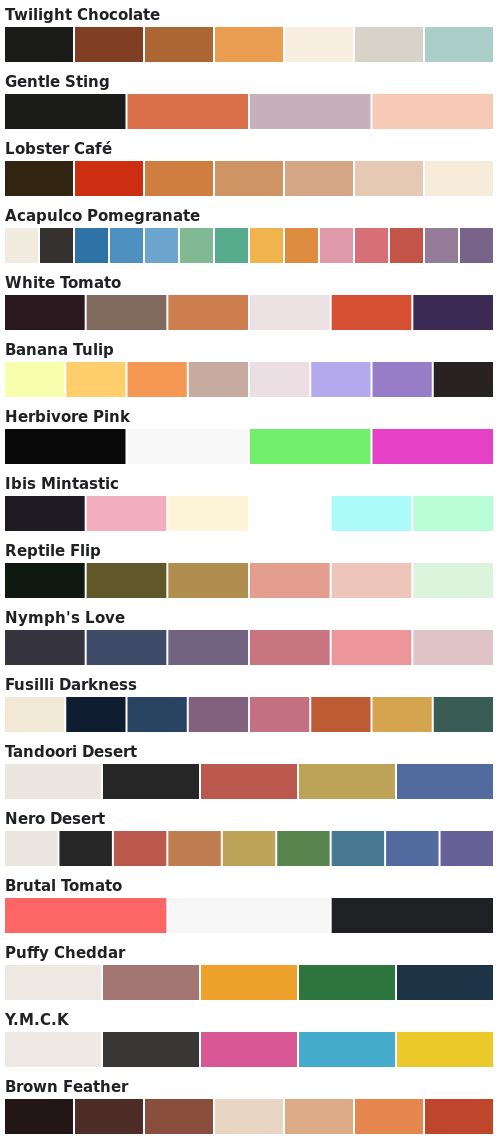
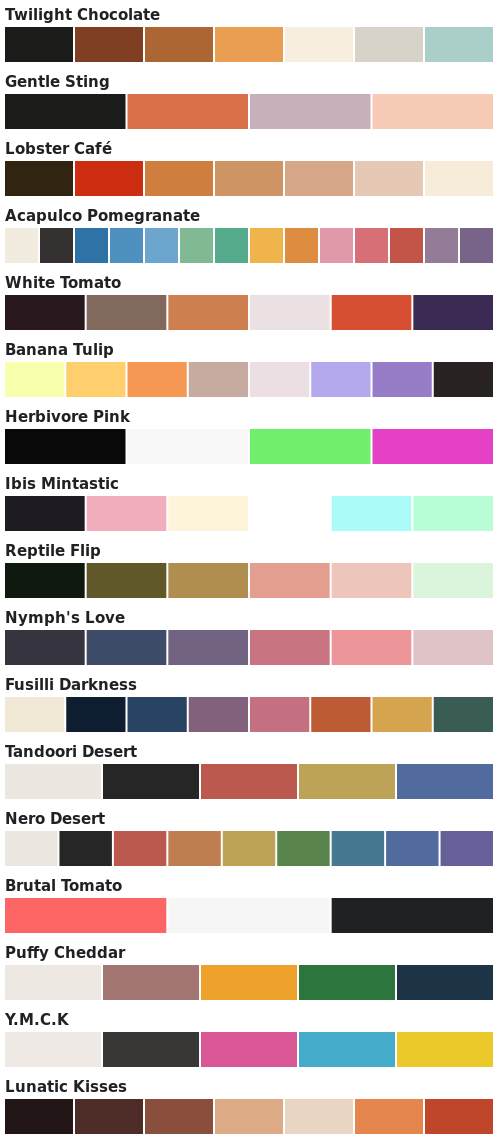
meodai published a site update

Changed region(s): [[0.42, 0.9526, 0.72, 1.0], [0.03, 0.9526, 0.24, 0.9833]]

diff --git a/palettes.js b/palettes.js
@@ -3,7 +3,7 @@
   typeof define === 'function' && define.amd ? define(['exports'], factory) :
   (global = typeof globalThis !== 'undefined' ? globalThis : global || self, factory(global.colorPalettes = {}));
 })(this, (function (exports) { 'use strict';
-  const palettes = [{"name":"Twilight Chocolate","colors":["#1b1b19","#803e23","#ac6633","#ea9e52","#f7eedf","#d7d3c8","#aacfc8"]},{"name":"Gentle Sting","colors":["#1b1b19","#da704a","#c8afbc","#f6cab4"]},{"name":"Lobster Café","colors":["#312512","#cd2d10","#d07e40","#ce9464","#d6a786","#e5c9b5","#f7ebda"]},{"colors":["#f2ebdf","#353130","#2f72a6","#4e90c0","#6ca6ce","#80b994","#55ab8c","#f0b44c","#dd8c40","#e099a8","#d76f76","#c35448","#947b98","#786488"],"name":"Acapulco Pomegranate"},{"colors":["#29181e","#81695d","#ce7f50","#ebe1e2","#d74f32","#3b2a54"],"name":"White Tomato"},{"colors":["#f8ffad","#ffcf6e","#f49854","#c7aba1","#ecdfe3","#b4a9ec","#977cc7","#292222"],"name":"Banana Tulip"},{"colors":["#090909","#f8f8f8","#71ee6b","#e541c7"],"name":"Herbivore Pink"},{"colors":["#1e1b22","#f3aebd","#fdf4da","#ffffff","#abfcf8","#b9fdd6"],"name":"Ibis Mintastic"},{"colors":["#0f1910","#615829","#af8e4f","#e39e90","#edc5bb","#dbf5dc"],"name":"Reptile Flip"},{"colors":["#36343f","#3e4c69","#726382","#c97481","#ec9699","#dfc3c7"],"name":"Nymph's Love"},{"colors":["#f1e9d6","#0f1d30","#284462","#82617c","#c47080","#bc5b34","#d4a44f","#395d54"],"name":"Fusilli Darkness"},{"author":"ippsketch","colors":["#ebe7e0","#262626","#bc594e","#bca357","#516b9e"],"name":"Tandoori Desert"},{"author":"ippsketch","colors":["#ebe7e0","#262626","#bc594e","#bf7e4f","#bca357","#5a844d","#467991","#516b9e","#656198"],"name":"Nero Desert"},{"name":"Brutal Tomato","colors":["#fe6666","#f6f6f6","#202125"]},{"colors":["#ede8e1","#a37673","#eea22c","#2c763d","#1c3445"],"name":"Puffy Cheddar"},{"name":"Y.M.C.K","colors":["#eee9e5","#383736","#d85794","#45abcb","#ebc92a"]},{"colors":["#221716","#4e2c28","#8a4e3d","#e8d6c2","#dcab86","#e6864f","#bf462b"],"name":"Brown Feather"}]
+  const palettes = [{"name":"Twilight Chocolate","colors":["#1b1b19","#803e23","#ac6633","#ea9e52","#f7eedf","#d7d3c8","#aacfc8"]},{"name":"Gentle Sting","colors":["#1b1b19","#da704a","#c8afbc","#f6cab4"]},{"name":"Lobster Café","colors":["#312512","#cd2d10","#d07e40","#ce9464","#d6a786","#e5c9b5","#f7ebda"]},{"colors":["#f2ebdf","#353130","#2f72a6","#4e90c0","#6ca6ce","#80b994","#55ab8c","#f0b44c","#dd8c40","#e099a8","#d76f76","#c35448","#947b98","#786488"],"name":"Acapulco Pomegranate"},{"colors":["#29181e","#81695d","#ce7f50","#ebe1e2","#d74f32","#3b2a54"],"name":"White Tomato"},{"colors":["#f8ffad","#ffcf6e","#f49854","#c7aba1","#ecdfe3","#b4a9ec","#977cc7","#292222"],"name":"Banana Tulip"},{"colors":["#090909","#f8f8f8","#71ee6b","#e541c7"],"name":"Herbivore Pink"},{"colors":["#1e1b22","#f3aebd","#fdf4da","#ffffff","#abfcf8","#b9fdd6"],"name":"Ibis Mintastic"},{"colors":["#0f1910","#615829","#af8e4f","#e39e90","#edc5bb","#dbf5dc"],"name":"Reptile Flip"},{"colors":["#36343f","#3e4c69","#726382","#c97481","#ec9699","#dfc3c7"],"name":"Nymph's Love"},{"colors":["#f1e9d6","#0f1d30","#284462","#82617c","#c47080","#bc5b34","#d4a44f","#395d54"],"name":"Fusilli Darkness"},{"author":"ippsketch","colors":["#ebe7e0","#262626","#bc594e","#bca357","#516b9e"],"name":"Tandoori Desert"},{"author":"ippsketch","colors":["#ebe7e0","#262626","#bc594e","#bf7e4f","#bca357","#5a844d","#467991","#516b9e","#656198"],"name":"Nero Desert"},{"name":"Brutal Tomato","colors":["#fe6666","#f6f6f6","#202125"]},{"colors":["#ede8e1","#a37673","#eea22c","#2c763d","#1c3445"],"name":"Puffy Cheddar"},{"name":"Y.M.C.K","colors":["#eee9e5","#383736","#d85794","#45abcb","#ebc92a"]},{"colors":["#221716","#4e2c28","#8a4e3d","#dcab86","#e8d6c2","#e6864f","#bf462b"],"name":"Lunatic Kisses"}]
 
   /**
    * @param {Array} palettes

diff --git a/palettes.esm.js b/palettes.esm.js
@@ -1,4 +1,4 @@
-const palettes = [{"name":"Twilight Chocolate","colors":["#1b1b19","#803e23","#ac6633","#ea9e52","#f7eedf","#d7d3c8","#aacfc8"]},{"name":"Gentle Sting","colors":["#1b1b19","#da704a","#c8afbc","#f6cab4"]},{"name":"Lobster Café","colors":["#312512","#cd2d10","#d07e40","#ce9464","#d6a786","#e5c9b5","#f7ebda"]},{"colors":["#f2ebdf","#353130","#2f72a6","#4e90c0","#6ca6ce","#80b994","#55ab8c","#f0b44c","#dd8c40","#e099a8","#d76f76","#c35448","#947b98","#786488"],"name":"Acapulco Pomegranate"},{"colors":["#29181e","#81695d","#ce7f50","#ebe1e2","#d74f32","#3b2a54"],"name":"White Tomato"},{"colors":["#f8ffad","#ffcf6e","#f49854","#c7aba1","#ecdfe3","#b4a9ec","#977cc7","#292222"],"name":"Banana Tulip"},{"colors":["#090909","#f8f8f8","#71ee6b","#e541c7"],"name":"Herbivore Pink"},{"colors":["#1e1b22","#f3aebd","#fdf4da","#ffffff","#abfcf8","#b9fdd6"],"name":"Ibis Mintastic"},{"colors":["#0f1910","#615829","#af8e4f","#e39e90","#edc5bb","#dbf5dc"],"name":"Reptile Flip"},{"colors":["#36343f","#3e4c69","#726382","#c97481","#ec9699","#dfc3c7"],"name":"Nymph's Love"},{"colors":["#f1e9d6","#0f1d30","#284462","#82617c","#c47080","#bc5b34","#d4a44f","#395d54"],"name":"Fusilli Darkness"},{"author":"ippsketch","colors":["#ebe7e0","#262626","#bc594e","#bca357","#516b9e"],"name":"Tandoori Desert"},{"author":"ippsketch","colors":["#ebe7e0","#262626","#bc594e","#bf7e4f","#bca357","#5a844d","#467991","#516b9e","#656198"],"name":"Nero Desert"},{"name":"Brutal Tomato","colors":["#fe6666","#f6f6f6","#202125"]},{"colors":["#ede8e1","#a37673","#eea22c","#2c763d","#1c3445"],"name":"Puffy Cheddar"},{"name":"Y.M.C.K","colors":["#eee9e5","#383736","#d85794","#45abcb","#ebc92a"]},{"colors":["#221716","#4e2c28","#8a4e3d","#e8d6c2","#dcab86","#e6864f","#bf462b"],"name":"Brown Feather"}]
+const palettes = [{"name":"Twilight Chocolate","colors":["#1b1b19","#803e23","#ac6633","#ea9e52","#f7eedf","#d7d3c8","#aacfc8"]},{"name":"Gentle Sting","colors":["#1b1b19","#da704a","#c8afbc","#f6cab4"]},{"name":"Lobster Café","colors":["#312512","#cd2d10","#d07e40","#ce9464","#d6a786","#e5c9b5","#f7ebda"]},{"colors":["#f2ebdf","#353130","#2f72a6","#4e90c0","#6ca6ce","#80b994","#55ab8c","#f0b44c","#dd8c40","#e099a8","#d76f76","#c35448","#947b98","#786488"],"name":"Acapulco Pomegranate"},{"colors":["#29181e","#81695d","#ce7f50","#ebe1e2","#d74f32","#3b2a54"],"name":"White Tomato"},{"colors":["#f8ffad","#ffcf6e","#f49854","#c7aba1","#ecdfe3","#b4a9ec","#977cc7","#292222"],"name":"Banana Tulip"},{"colors":["#090909","#f8f8f8","#71ee6b","#e541c7"],"name":"Herbivore Pink"},{"colors":["#1e1b22","#f3aebd","#fdf4da","#ffffff","#abfcf8","#b9fdd6"],"name":"Ibis Mintastic"},{"colors":["#0f1910","#615829","#af8e4f","#e39e90","#edc5bb","#dbf5dc"],"name":"Reptile Flip"},{"colors":["#36343f","#3e4c69","#726382","#c97481","#ec9699","#dfc3c7"],"name":"Nymph's Love"},{"colors":["#f1e9d6","#0f1d30","#284462","#82617c","#c47080","#bc5b34","#d4a44f","#395d54"],"name":"Fusilli Darkness"},{"author":"ippsketch","colors":["#ebe7e0","#262626","#bc594e","#bca357","#516b9e"],"name":"Tandoori Desert"},{"author":"ippsketch","colors":["#ebe7e0","#262626","#bc594e","#bf7e4f","#bca357","#5a844d","#467991","#516b9e","#656198"],"name":"Nero Desert"},{"name":"Brutal Tomato","colors":["#fe6666","#f6f6f6","#202125"]},{"colors":["#ede8e1","#a37673","#eea22c","#2c763d","#1c3445"],"name":"Puffy Cheddar"},{"name":"Y.M.C.K","colors":["#eee9e5","#383736","#d85794","#45abcb","#ebc92a"]},{"colors":["#221716","#4e2c28","#8a4e3d","#dcab86","#e8d6c2","#e6864f","#bf462b"],"name":"Lunatic Kisses"}]
 
 /**
  * @param {Array} palettes
